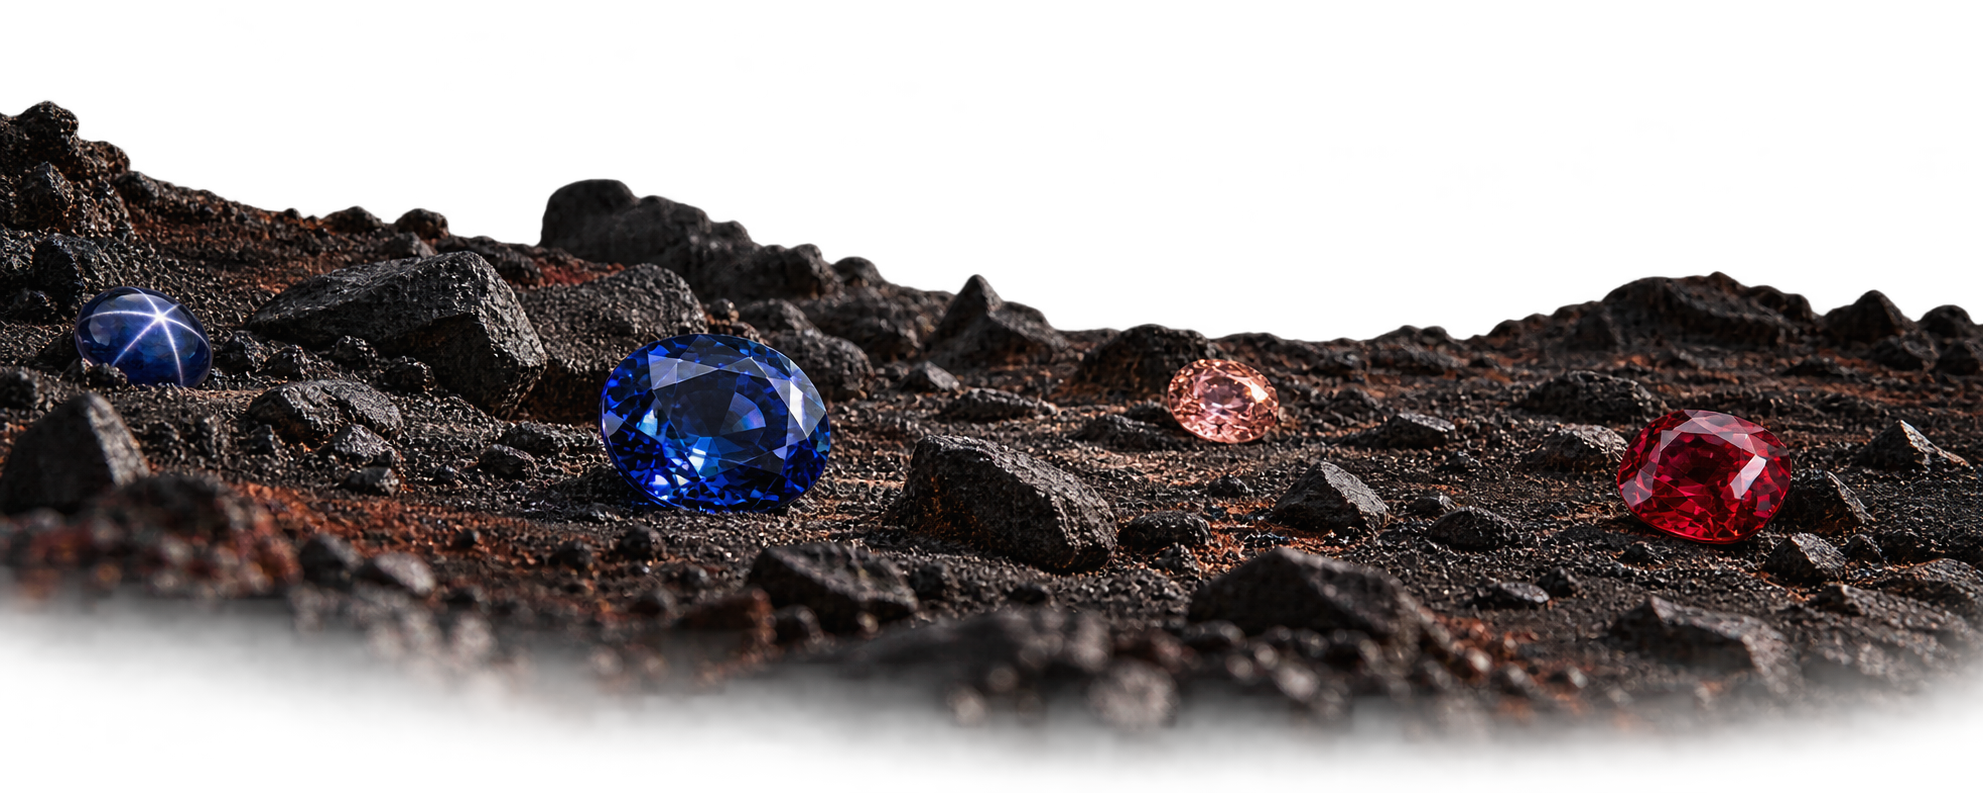
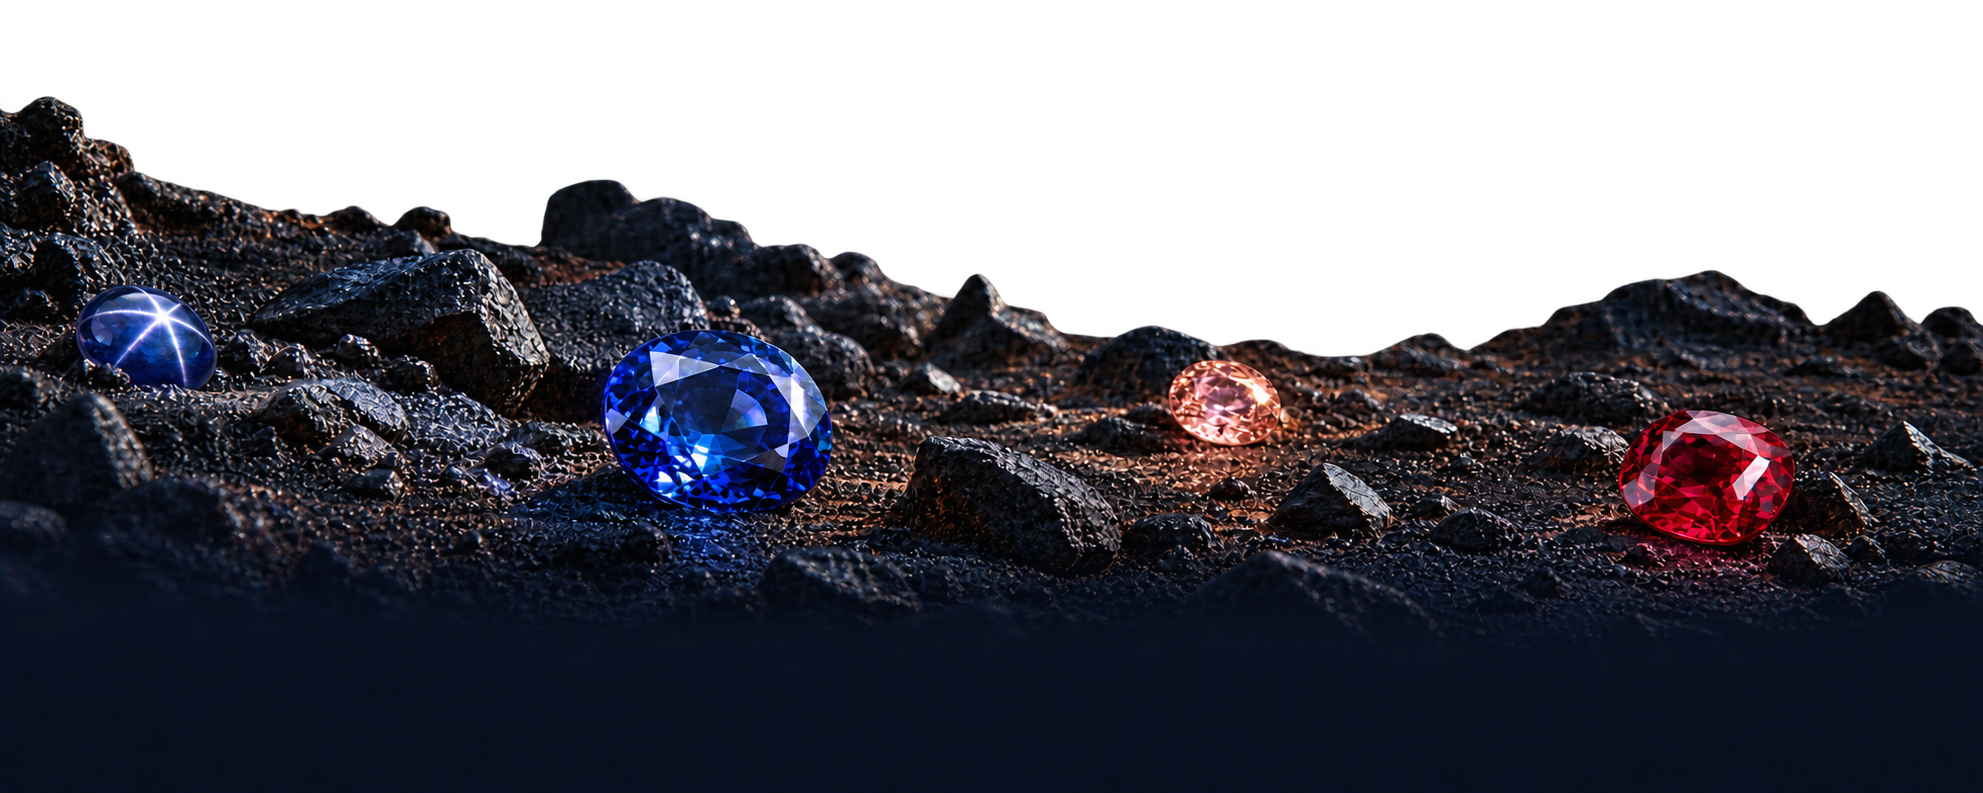
feat: update AppointmentCTA section for improved layout and text clarity

diff --git a/components/sections/AppointmentCTA.tsx b/components/sections/AppointmentCTA.tsx
@@ -6,25 +6,26 @@ import Container from "@/components/ui/Container";
 
 export default function AppointmentCTA() {
   return (
-    <section className="relative overflow-hidden bg-navy-950 text-ivory">
-      <ColumnLines tone="dark" />
+    <section className="relative overflow-hidden bg-navy-950">
+      <div className="relative bg-ivory">
+        <ColumnLines tone="light" />
+        <Container className="relative flex flex-col items-center gap-5 pt-24 pb-10 text-center md:pt-32 lg:pt-40">
+          <Reveal className="flex flex-col items-center gap-5">
+            <span className="h-px w-16 bg-gold-500" />
+            <h2 className="max-w-2xl font-display text-3xl leading-tight text-ink sm:text-4xl lg:text-5xl">
+              From Raw Earth to Rare Beauty.
+            </h2>
+          </Reveal>
+          <Reveal delay={0.2}>
+            <Button href="/appointment" size="md">
+              Book a Private Appointment
+            </Button>
+          </Reveal>
+        </Container>
+      </div>
 
-      <Container className="relative flex flex-col items-center gap-8 pt-24 text-center md:pt-32 lg:pt-40">
-        <Reveal className="flex flex-col items-center gap-8">
-          <span className="h-px w-16 bg-gold-400" />
-          <h2 className="max-w-2xl font-display text-3xl leading-tight sm:text-4xl lg:text-5xl">
-            From Raw Earth to Rare Beauty.
-          </h2>
-        </Reveal>
-        <Reveal delay={0.2}>
-          <Button href="/appointment" size="md">
-            Book a Private Appointment
-          </Button>
-        </Reveal>
-      </Container>
-
-      <div className="relative mx-auto mt-16 w-full max-w-[1920px] sm:mt-20 lg:mt-24">
-        <div className="relative aspect-1983/793 w-full">
+      <div className="relative mx-auto w-full max-w-[1920px]">
+        <div className="relative aspect-1983/793 w-full bg-linear-to-b from-ivory to-navy-950">
           <Image
             src="/footer-img.png"
             alt="Natural sapphires and a ruby resting on raw volcanic rock at origin"
